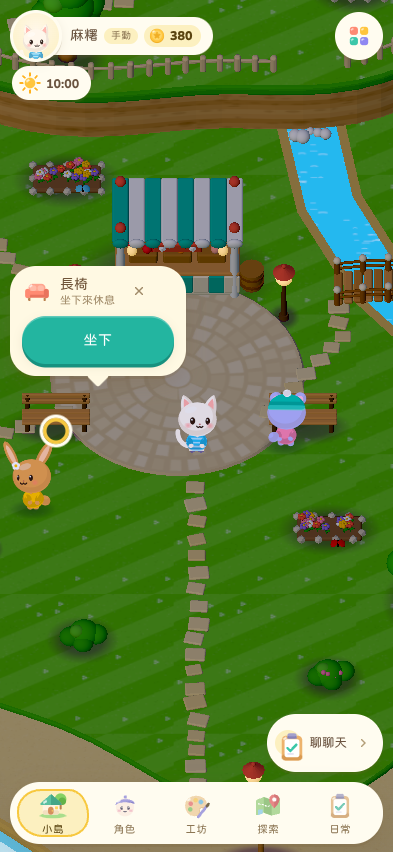
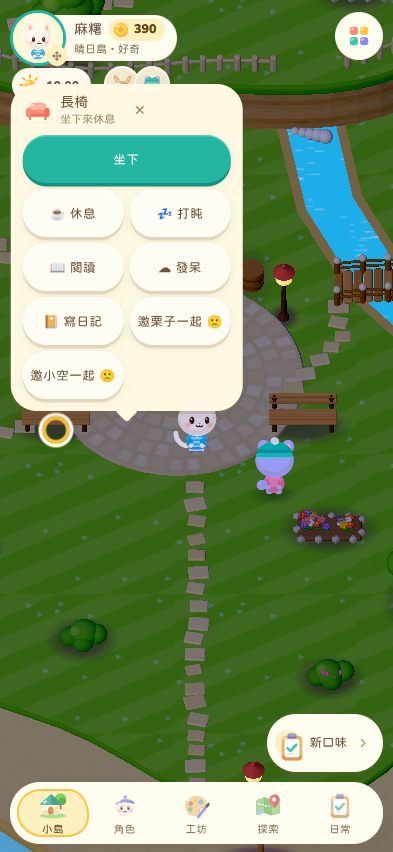
16.4: regression results in the report (tests v15 1d keeps mates away from the door, life 13b no longer depends on the first seeded draw); README 0.16.4
Claude-Session: https://claude.ai/code/session_01PAZxUZ1nduqVoNWZ69f7R7

diff --git a/game/tests/v15/run.js b/game/tests/v15/run.js
@@ -50,11 +50,14 @@ const shot = (page, n) => page.screenshot({ path: path.join(SHOTS, n + '.png') }
       /* the things that used to take you away with one tap: the door of your home */
       await closeAll(); await page.evaluate(() => { const p = OC.App.player; if (p.mode === 'sit') { p.mode = 'idle'; p.seatY = 0; } p.path = null; }); await wait(page, 400);
       /* walk the view over to the house first (it is at the top of the island, outside the first screen) */
-      await page.evaluate(() => { const it = (OC.World.interacts || []).find((x) => x.type === 'home'); if (!it) return; const t = OC.World.nearestWalkable(it.at.x, it.at.y + 46, 60) || it.at; const p = OC.App.player; p.x = t.x; p.y = t.y; p.path = null; });
+      await page.evaluate(() => { const it = (OC.World.interacts || []).find((x) => x.type === 'home'); if (!it) return; const t = OC.World.nearestWalkable(it.at.x, it.at.y + 46, 60) || it.at; const p = OC.App.player; p.x = t.x; p.y = t.y; p.path = null;
+        /* the others stay out of the way: a mate standing in front of the door would take the tap (that is the right behaviour) */
+        OC.Chars.all().forEach((c, i) => { if (c.id === OC.Store.s.activeId) return; OC.Brain.hold(c.id, 'test'); const a = OC.App.actorOf(c.id); const q = a && OC.World.nearestWalkable(it.at.x - 120 + i * 240, it.at.y + 260, 80); if (a && q) { a.x = q.x; a.y = q.y; a.path = null; } }); });
       await page.waitForFunction(() => { const it = (OC.World.interacts || []).find((x) => x.type === 'home'); if (!it) return true; const p = OC.World.project(it.at.x, it.at.y, OC.World.levelAt(it.at.x, it.at.y), 10); return p.y > 200 && p.y < innerHeight - 200 && p.x > 50 && p.x < innerWidth - 50; }, null, { timeout: 20000 }).catch(() => {});
       await wait(page, 800);
       const home = await find('home'); const h2 = { home: !!home };
-      if (home) { await page.touchscreen.tap(home.x, home.y); await page.waitForFunction(() => OC.Pick.open_, null, { timeout: 10000 }).catch(() => {}); await wait(page, 2500); h2.s = await state(); }
+      if (home) { h2.hit = await page.evaluate(([x, y]) => { const k = OC.World.pick(x, y), p = OC.App.player; return { it: k.it && (k.it.type + ':' + (k.it.id || '')), p: [Math.round(p.x), Math.round(p.y)], ring: OC.Radial.open_ }; }, [home.x, home.y]); await page.evaluate(() => { window.__ocInputLog = []; }); await page.touchscreen.tap(home.x, home.y); await page.waitForFunction(() => OC.Pick.open_, null, { timeout: 10000 }).catch(() => {}); await wait(page, 2500); h2.s = await state(); h2.log = await page.evaluate(() => ({ input: (window.__ocInputLog || []).slice(-8), hub: (document.querySelector('.radial-hub b') || {}).textContent || null })); }
+      await page.evaluate(() => OC.Chars.all().forEach((c) => OC.Brain.unhold(c.id, 'test')));
       check('1d 點到「我的家」的門不會直接換地點：先出現「進去」的動作卡，人還在原地', !!home && h2.s.pick && h2.s.verb === '進去' && h2.s.area === 'isle' && !h2.s.walking, h2);
 
       /* the ring menu of a character: the finger that opened it cannot pick from it */

diff --git a/game/tests/life/run.js b/game/tests/life/run.js
@@ -356,7 +356,7 @@ const setHour = (page, h) => page.evaluate((hh) => { const c = OC.Store.s.life.c
         const c = OC.Chars.all()[1], o = OC.Chars.all()[2];
         const bad = OC.Talk.validate('{"format":"x"}'), broken = OC.Talk.validate('{oops'), newer = OC.Talk.validate({ format: 'ocshimeji-life', version: 99, lines: [] });
         const ok = OC.Talk.importData(JSON.stringify({ format: 'ocshimeji-life', version: 1, lines: [{ cat: 'greet', text: '測試台詞{other}！', char: c.id, w: 50, c: { phase: ['morning', 'noon', 'dusk', 'night'] } }] }));
-        const said = OC.Talk.say('greet', c, o);
+        let said = null; for (let i = 0; i < 5 && !(said && /測試台詞/.test(said.text)); i++) said = OC.Talk.say('greet', c, o);   /* weighted pick: the seeded random stream decides the first draw */
         const ex = JSON.parse(OC.Talk.exportData());
         const X = OC.Talk.ctx(c, o), eligible = OC.Talk.lines().filter((l) => l.cat === 'talk_r' && !l.char && OC.Talk.test(l.c, X)).length;
         const seen = new Set(); let n = 0; for (let i = 0; i < eligible; i++) { const l = OC.Talk.pick('talk_r', c, o); if (l) { seen.add(l.line.id); n++; } }

diff --git a/README.md b/README.md
@@ -2,9 +2,11 @@
 
 > 我的 OC，住進你的手機。—— 原創角色生活模擬 × Android 懸浮桌寵（3D 固定視角世界 × 2D 角色）
 
-## 目前版本 0.16.3-alpha（16.3：角色工作室）
+## 目前版本 0.16.4-alpha（16.4：互動選單＋動作清單）
 
-- **可安裝 APK（Debug 簽章，非正式發行版）**：[`deliverables/apk/oc-shimeji-0.16.3-alpha-debug.apk`](deliverables/apk/oc-shimeji-0.16.3-alpha-debug.apk)
+- **可安裝 APK（Debug 簽章，非正式發行版）**：[`deliverables/apk/oc-shimeji-0.16.4-alpha-debug.apk`](deliverables/apk/oc-shimeji-0.16.4-alpha-debug.apk)
+- 16.4：點角色、家具、地面的選單重做——一層分類、一層項目，一按就做（可復原、長按立刻做），不跳確認；動作清單照《模擬市民》的方式重寫（帶目標、8 個、拖曳排序、循環、進度、不想做會說原因＋強迫、跨地點）；11 個新活動。紀錄：[`docs/v16.4-report.md`](docs/v16.4-report.md)
+- 16.3：角色工作室（舞台固定只捲面板、圖片模式的取景台與去背、動畫來源＋一鍵全選、角色台詞、專屬互動、可匯入的事件腳本）。紀錄：[`docs/v16.3-report.md`](docs/v16.3-report.md)
 - 16.2：沒有門檻、都能做——60 種角色之間的互動（12 類），對方依關係、親近程度、個性、心情決定怎麼反應（熱情、害羞閃躲、婉拒、推開、哭了…），太突然會降好感；點別的角色就有互動選單；設施可以邀請別人一起用。紀錄：[`docs/v16.2-report.md`](docs/v16.2-report.md)。
 - 16.1：開局可以一次建立多位島民，設定年齡、物種（20 種＋自訂）、彼此的關係（家人、伴侶、朋友、仇人…，有方向、可鎖定）、住哪一棟房子；七個人生階段（含嬰兒），生日會長大；未滿 18 歲不會有戀愛。紀錄：[`docs/v16.1-report.md`](docs/v16.1-report.md)。
 - 16.0：角色用螢幕原本的解析度畫（匯入圖片不再糊）、圖片角色寬高分開調整且不會被切、左上角名牌卡、切換操控不再傳送、買東西／撿東西直接在介面完成、打擾預算＋熱鬧程度＋信箱、遊戲曆（四季各 28 天）／實時曆、存檔 v8。計畫與後續版本：[`docs/v16-plan.md`](docs/v16-plan.md)；紀錄：[`docs/v16.0-report.md`](docs/v16.0-report.md)。**手機實機尚未驗證。**

diff --git a/docs/v16.4-report.md b/docs/v16.4-report.md
@@ -38,9 +38,26 @@
 
 `node game/tests/v16/run.js 22 23 24 25`。舊測試中依舊行為寫的地方已更新（刻意的改變）：v15 2a／2b（清單上限 8、點一項先展開按鈕）、v16 12a（互動分類多了「專屬」）。
 
-## 回歸
+## 回歸（快照 `77a22a4`、單一執行器）
 
-（見下方）
+| 套件 | 結果 | 說明 |
+|---|---|---|
+| v16 | 67/70 | 22c、24b：清單把「這張長椅／地上這一點」交給引擎的途中，AI 有機會先挑了別的事（真的問題）→ 改成目標點也經過 `Brain`（`b.queuedPt`，用掉就清）；2a 是別的角色自己的小動作。修正後單獨重跑 2、22、24：8/8 |
+| v15 | 49/51 | 1e 測的是「環上第一顆按鈕」，16.4 起那顆是分類（打開面板、不執行）→ 分類按鈕加上 `.cat`，測試改按直接執行的項目；1d 是另一個角色剛好走到家門口、手指點到牠（點到角色開角色的環是對的）→ 測試先把其他人移開。單獨重跑兩次 8/8 |
+| v14 | 23/23 | |
+| v13 | 36/36 | |
+| v12 | 44/45 | 10a（圖鑑新增的過場短句）單獨重跑 3/3 |
+| v11 | 41/41 | |
+| v10 | 9/9 | |
+| v8 | 46/46 | |
+| pet | 66/66 | |
+| play | 67/67 | |
+| world | 74/74 | |
+| life | 48/52 | 2b、3a、3b 單獨重跑通過；13b 固定失敗：加權抽籤用的是固定種子的亂數，16.4 改變了開機時抽亂數的次數，第一次抽到的值（約 0.04）剛好落在內建台詞上（匯入台詞的權重約 91%）——遊戲沒錯，測試只看第一次；改成「5 次內說出」後 5/5 |
+
+## APK
+
+`deliverables/apk/oc-shimeji-0.16.4-alpha-debug.apk`（versionCode 32、targetSdk 35、Debug 簽章，**不是正式發行版**），sha256 `4802b49e…dee0`，`verifyDebugApk` 通過。**這個 APK 在 `queuedPt` 修正之前建置**（清單交給引擎時 AI 可能插隊的問題還在裡面）；修正會包含在 0.16.5 的 APK。**手機上沒有安裝驗證過。**
 
 ## 未完成／未驗證（誠實標示）
 
